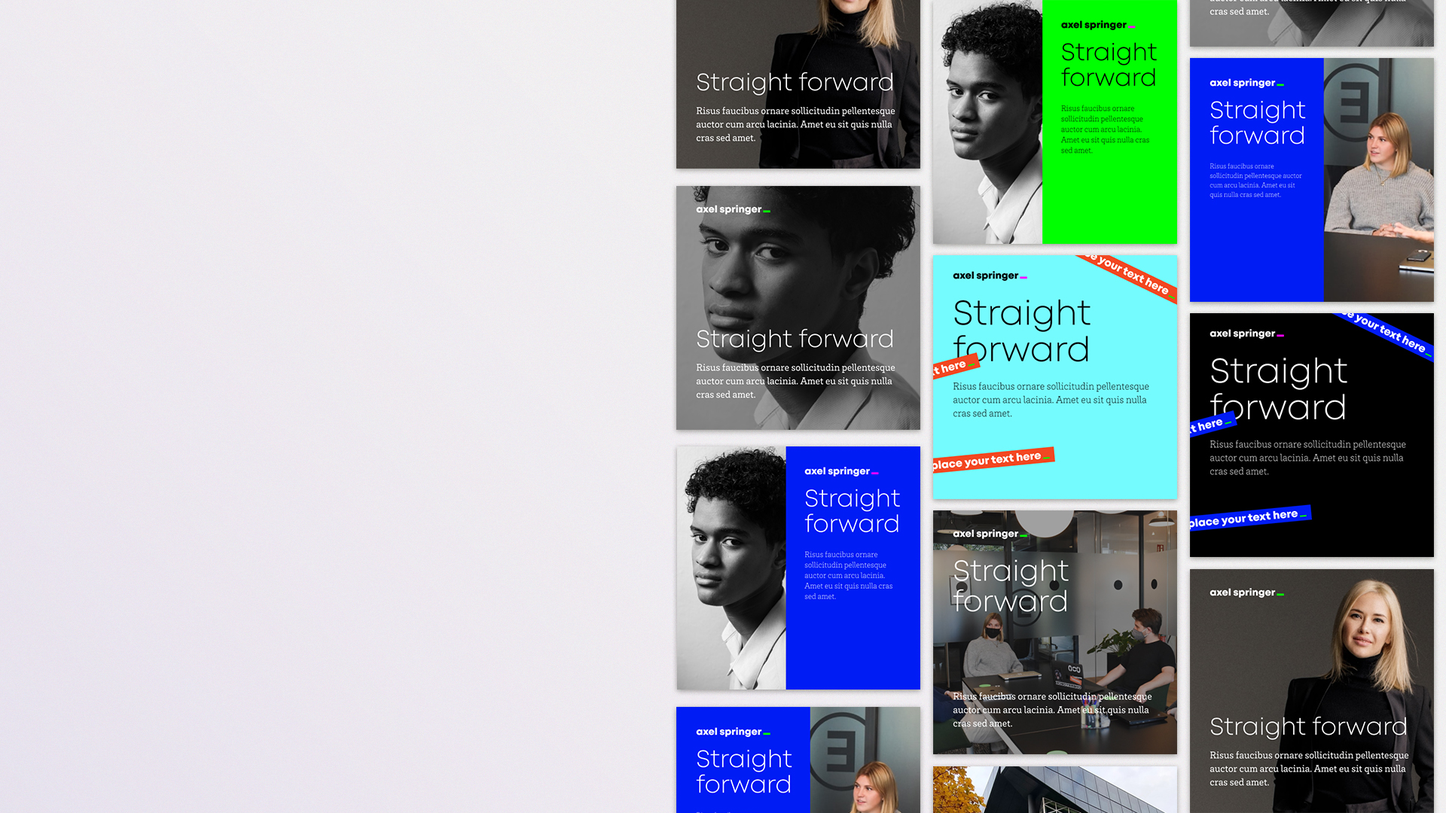
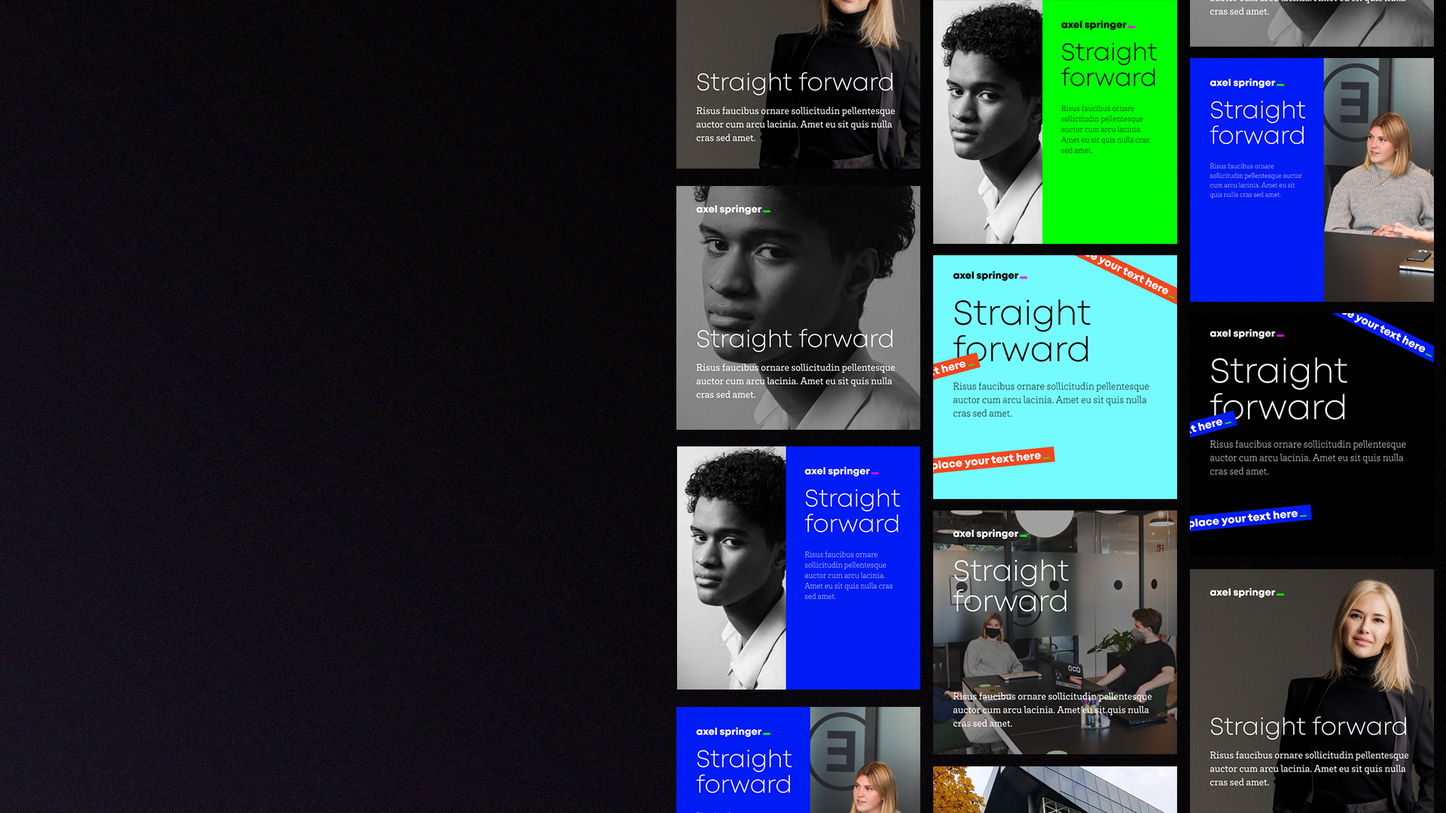
v.001.008

diff --git a/app/static/theme-light.css b/app/static/theme-light.css
@@ -1,33 +1,32 @@
 :root {
-    --md-sys-color-primary: var(--md-sys-color-primary-light);
-    --md-sys-color-on-primary: var(--md-sys-color-on-primary-light);
-    --md-sys-color-primary-container: var(--md-sys-color-primary-container-light);
-    --md-sys-color-on-primary-container: var(--md-sys-color-on-primary-container-light);
-    --md-sys-color-secondary: var(--md-sys-color-secondary-light);
-    --md-sys-color-on-secondary: var(--md-sys-color-on-secondary-light);
-    --md-sys-color-secondary-container: var(--md-sys-color-secondary-container-light);
-    --md-sys-color-on-secondary-container: var(--md-sys-color-on-secondary-container-light);
-    --md-sys-color-tertiary: var(--md-sys-color-tertiary-light);
-    --md-sys-color-on-tertiary: var(--md-sys-color-on-tertiary-light);
-    --md-sys-color-tertiary-container: var(--md-sys-color-tertiary-container-light);
-    --md-sys-color-on-tertiary-container: var(--md-sys-color-on-tertiary-container-light);
-    --md-sys-color-error: var(--md-sys-color-error-light);
-    --md-sys-color-error-container: var(--md-sys-color-error-container-light);
-    --md-sys-color-on-error: var(--md-sys-color-on-error-light);
-    --md-sys-color-on-error-container: var(--md-sys-color-on-error-container-light);
-    --md-sys-color-background: var(--md-sys-color-background-light);
-    --md-sys-color-on-background: var(--md-sys-color-on-background-light);
-    --md-sys-color-surface: var(--md-sys-color-surface-light);
-    --md-sys-color-on-surface: var(--md-sys-color-on-surface-light);
-    --md-sys-color-surface-variant: var(--md-sys-color-surface-variant-light);
-    --md-sys-color-outline-md-sys-color: var(--md-sys-color-outline-light);
-    --md-sys-color-inverse-on-surface: var(--md-sys-color-inverse-on-surface-light);
-    --md-sys-color-inverse-surface: var(--md-sys-color-inverse-surface-light);
-    --md-sys-color-inverse-primary: var(--md-sys-color-inverse-primary-light);
-    --md-sys-color-shadow: var(--md-sys-color-shadow-light);
-    --md-sys-color-surface-tint: var(--md-sys-color-surface-tint-light);
-    --md-sys-color-outline-variant: var(--md-sys-color-outline-variant-light);
-    --md-sys-color-scrim: var(--md-sys-color-scrim-light);
-
-   }
-   
+ --md-sys-color-primary: var(--md-sys-color-primary-dark);
+ --md-sys-color-on-primary: var(--md-sys-color-on-primary-dark);
+ --md-sys-color-primary-container: var(--md-sys-color-primary-container-dark);
+ --md-sys-color-on-primary-container: var(--md-sys-color-on-primary-container-dark);
+ --md-sys-color-secondary: var(--md-sys-color-secondary-dark);
+ --md-sys-color-on-secondary: var(--md-sys-color-on-secondary-dark);
+ --md-sys-color-secondary-container: var(--md-sys-color-secondary-container-dark);
+ --md-sys-color-on-secondary-container: var(--md-sys-color-on-secondary-container-dark);
+ --md-sys-color-tertiary: var(--md-sys-color-tertiary-dark);
+ --md-sys-color-on-tertiary: var(--md-sys-color-on-tertiary-dark);
+ --md-sys-color-tertiary-container: var(--md-sys-color-tertiary-container-dark);
+ --md-sys-color-on-tertiary-container: var(--md-sys-color-on-tertiary-container-dark);
+ --md-sys-color-error: var(--md-sys-color-error-dark);
+ --md-sys-color-error-container: var(--md-sys-color-error-container-dark);
+ --md-sys-color-on-error: var(--md-sys-color-on-error-dark);
+ --md-sys-color-on-error-container: var(--md-sys-color-on-error-container-dark);
+ --md-sys-color-background: var(--md-sys-color-background-dark);
+ --md-sys-color-on-background: var(--md-sys-color-on-background-dark);
+ --md-sys-color-surface: var(--md-sys-color-surface-dark);
+ --md-sys-color-on-surface: var(--md-sys-color-on-surface-dark);
+ --md-sys-color-surface-variant: var(--md-sys-color-surface-variant-dark);
+ --md-sys-color-on-surface-variant: var(--md-sys-color-on-surface-variant-dark);
+ --md-sys-color-outline: var(--md-sys-color-outline-dark);
+ --md-sys-color-inverse-on-surface: var(--md-sys-color-inverse-on-surface-dark);
+ --md-sys-color-inverse-surface: var(--md-sys-color-inverse-surface-dark);
+ --md-sys-color-inverse-primary: var(--md-sys-color-inverse-primary-dark);
+ --md-sys-color-shadow: var(--md-sys-color-shadow-dark);
+ --md-sys-color-surface-tint: var(--md-sys-color-surface-tint-dark);
+ --md-sys-color-outline-variant: var(--md-sys-color-outline-variant-dark);
+ --md-sys-color-scrim: var(--md-sys-color-scrim-dark);
+}
